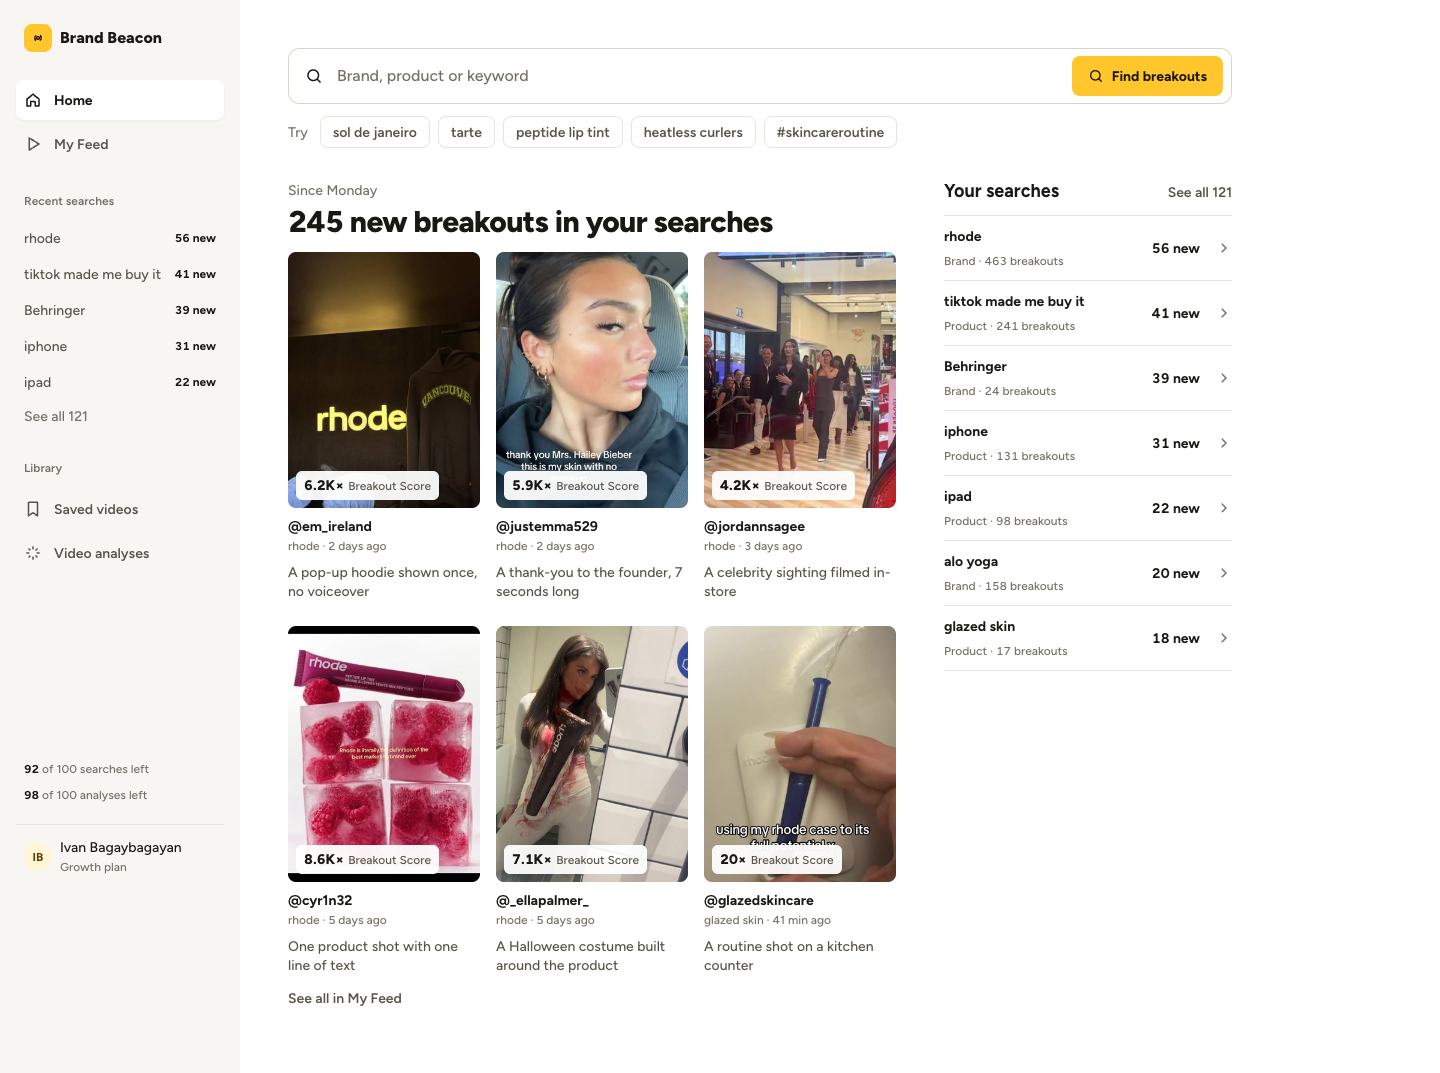
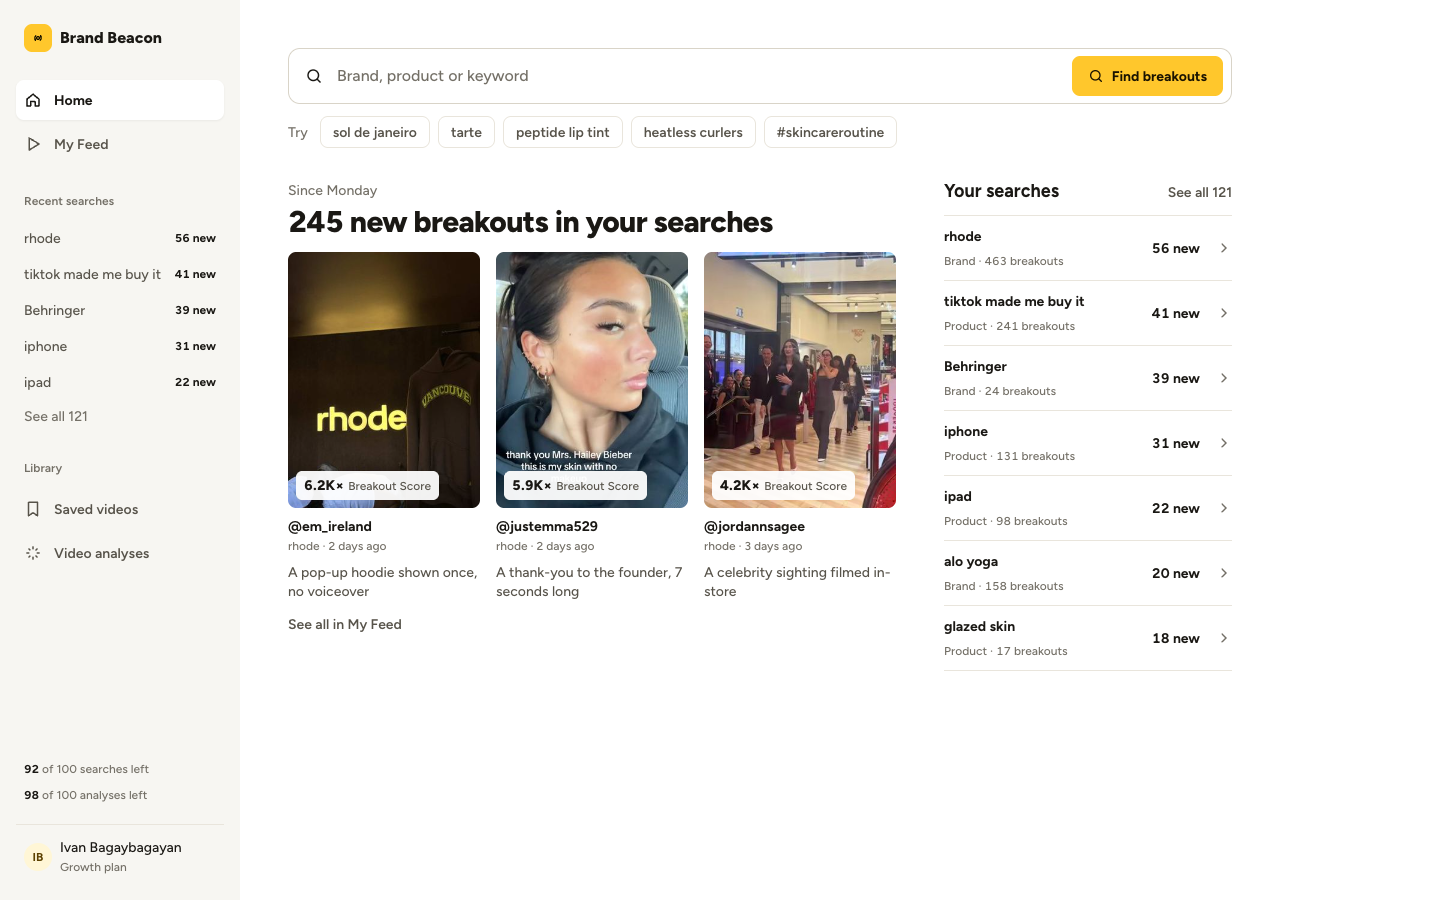
BB Home refresh: drop deleted creator card, option B shows 3 cards

diff --git a/bb-3/home-refresh/app.html b/bb-3/home-refresh/app.html
@@ -191,7 +191,6 @@ var V=[
  {img:"../../img/v3.jpg",h:"em_ireland",s:"6.2K",q:"rhode",d:"2 days ago",why:"A pop-up hoodie shown once, no voiceover"},
  {img:"../../img/v4.jpg",h:"justemma529",s:"5.9K",q:"rhode",d:"2 days ago",why:"A thank-you to the founder, 7 seconds long"},
  {img:"../../img/v5.jpg",h:"jordannsagee",s:"4.2K",q:"rhode",d:"3 days ago",why:"A celebrity sighting filmed in-store"},
- {img:"../../img/v1.jpg",h:"cyr1n32",s:"8.6K",q:"rhode",d:"5 days ago",why:"One product shot with one line of text"},
  {img:"../../img/v2.jpg",h:"_ellapalmer_",s:"7.1K",q:"rhode",d:"5 days ago",why:"A Halloween costume built around the product"},
  {img:"../../img/v6.jpg",h:"glazedskincare",s:"20",q:"glazed skin",d:"41 min ago",why:"A routine shot on a kitchen counter"}];
 var NEWT=S.reduce(function(a,s){return a+s.nw},0);
@@ -231,7 +230,7 @@ var VIEW={
  b:function(){return '<div class="wrap"><div class="vb">'+
   '<div class="bar">'+sform()+chips()+'</div>'+
   '<div class="cols"><div class="sec"><div><p class="hi">Since Monday</p><h1 class="h1"><span class="num">'+NEWT+'</span> new breakouts in your searches</h1></div>'+
-  '<div class="grid3">'+V.map(function(x){return vcard(x,1)}).join("")+'</div><a class="lnk" href="#">See all in My Feed</a></div>'+
+  '<div class="grid3">'+V.slice(0,3).map(function(x){return vcard(x,1)}).join("")+'</div><a class="lnk" href="#">See all in My Feed</a></div>'+
   '<aside class="sec slist"><div class="sech"><h2 class="h2">Your searches</h2><a class="lnk" href="#">See all 121</a></div><div class="rows">'+S.slice(0,7).map(rowS).join("")+'</div></aside></div>'+
   '</div></div>';},
  c:function(){return '<div class="wrap"><div class="vcx">'+

diff --git a/bb-3/home-refresh/index.html b/bb-3/home-refresh/index.html
@@ -118,7 +118,7 @@ ul.q{margin:0;padding-left:20px;color:var(--ink2);display:flex;flex-direction:co
  <div class="oh"><div><h2>B. New breakouts first</h2><p class="bet">The reason to come back is new videos, so lead with them. The headline is the count of new breakouts, the videos take the wide column, and the searches sit in a narrow column on the right.</p></div><a class="try" href="app.html?v=b">Try it</a></div>
  <div class="shots"><div class="shot"><img src="shots/b-1440.png" alt="Option B desktop"></div><div class="shot ph"><img src="shots/b-390.png" alt="Option B phone"></div></div>
  <div class="facts">
-  <div><h3>What changes</h3><p>Search bar on top at full width, then six bigger video cards, each with one line on why it broke out. Your searches becomes a compact list beside them. On phone, the videos scroll sideways and the list follows.</p></div>
+  <div><h3>What changes</h3><p>Search bar on top at full width, then three bigger video cards, each with one line on why it broke out. Your searches becomes a compact list beside them. On phone, the videos scroll sideways and the list follows.</p></div>
   <div><h3>Trade-off</h3><p>The “why it worked” line under each card doesn't exist in the app today (SAMPLE copy). It needs an analysis or a short generated line per video. Without it the cards are only thumbnails, which is My Feed again.</p></div>
  </div>
 </section>
